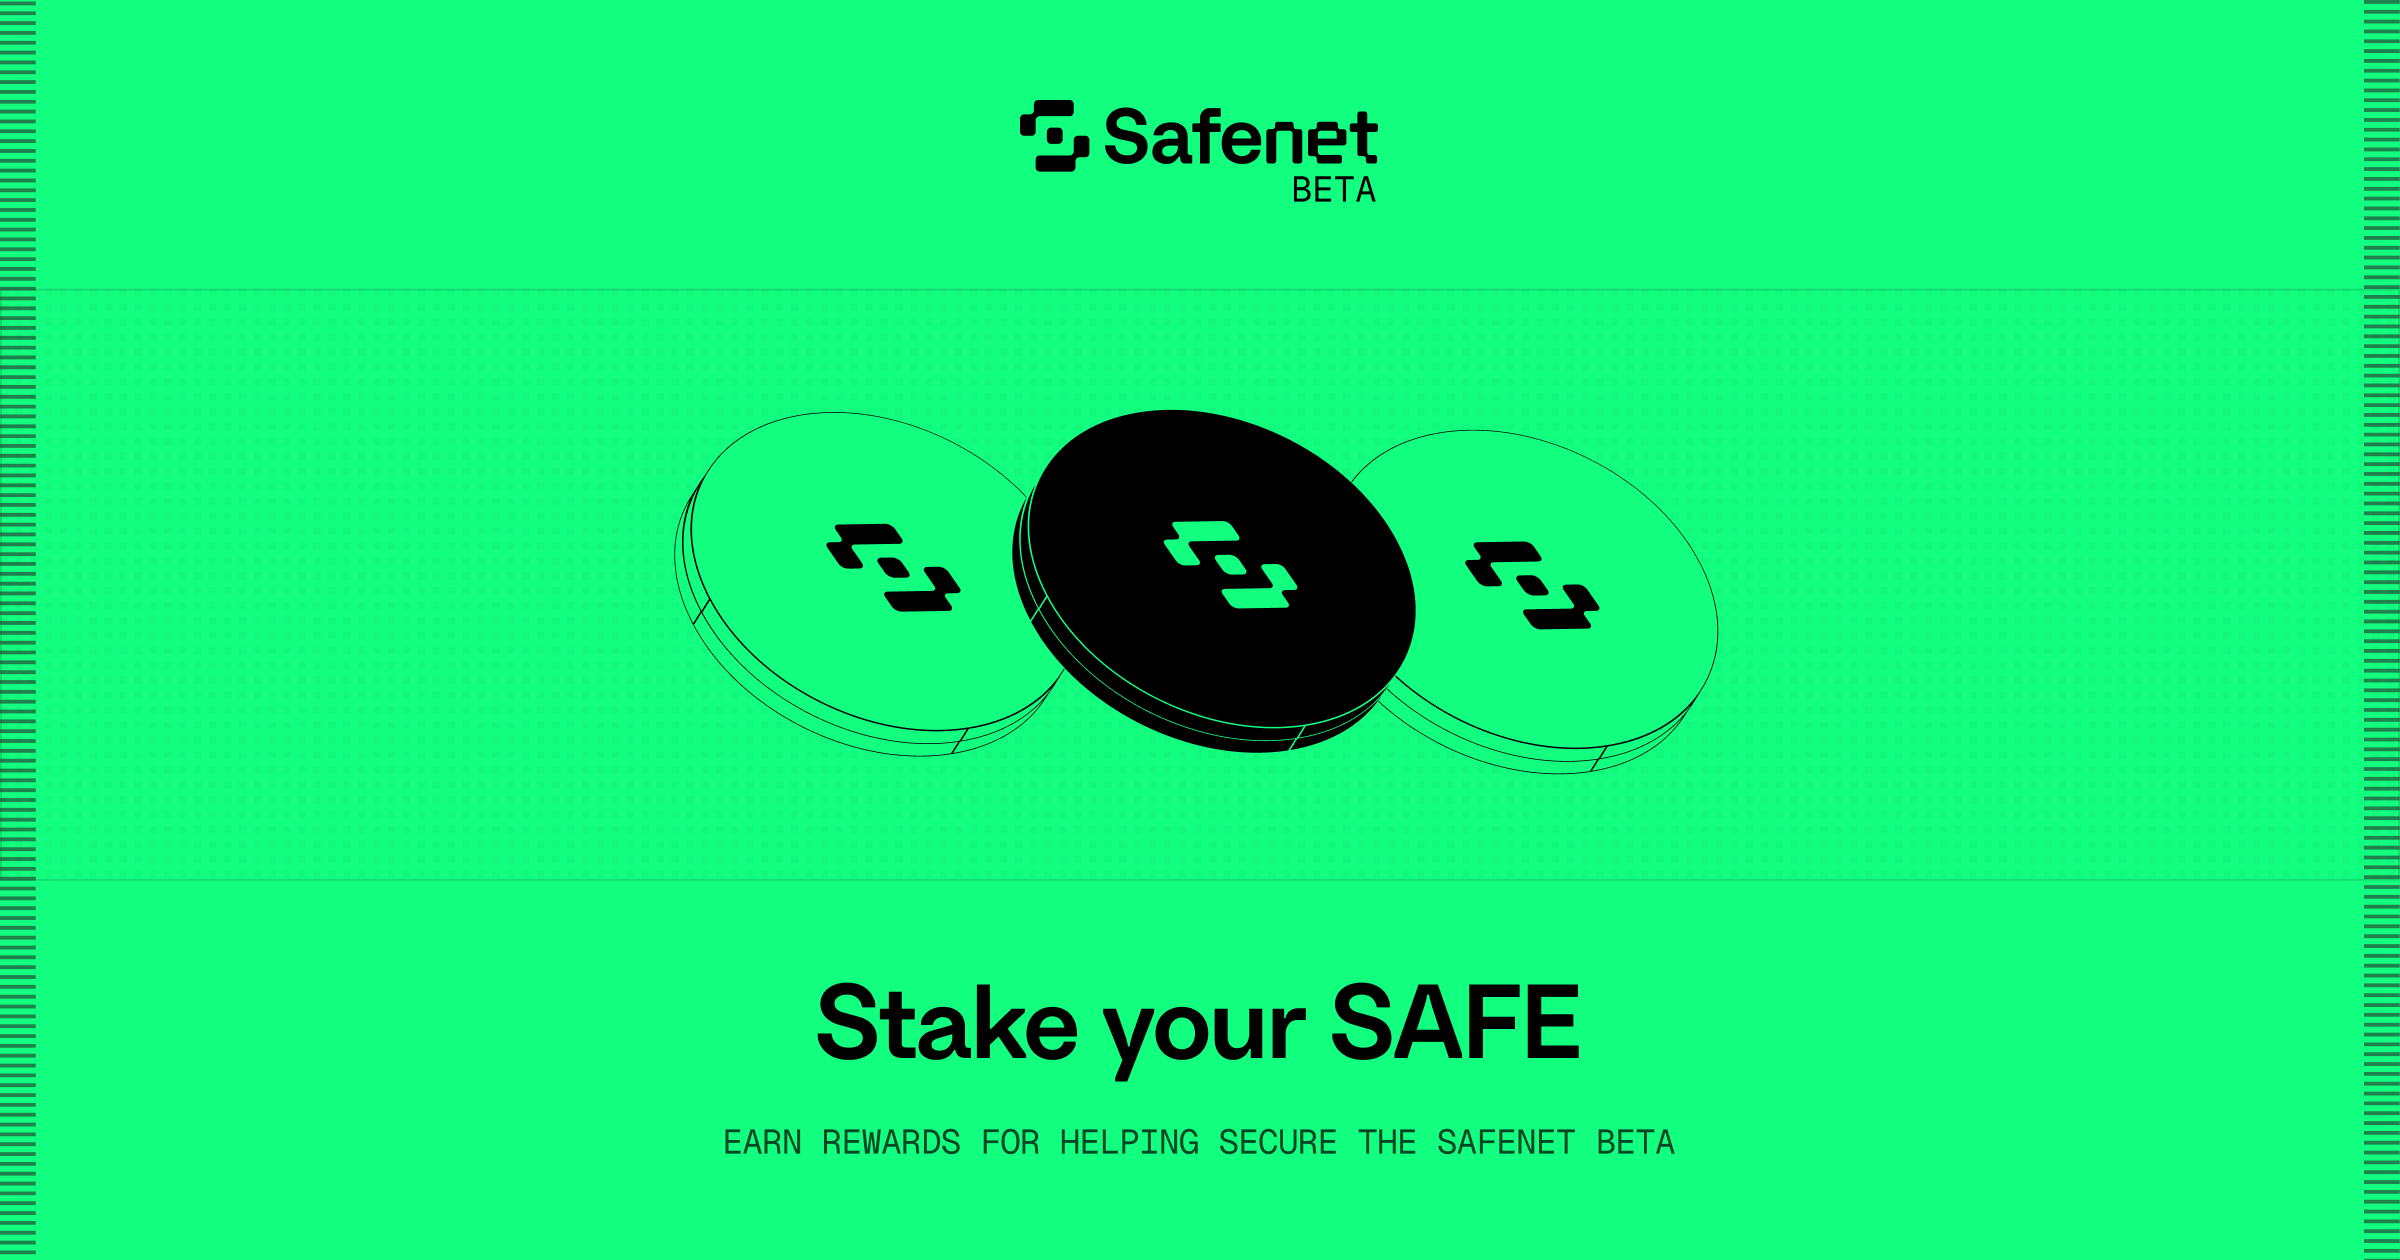
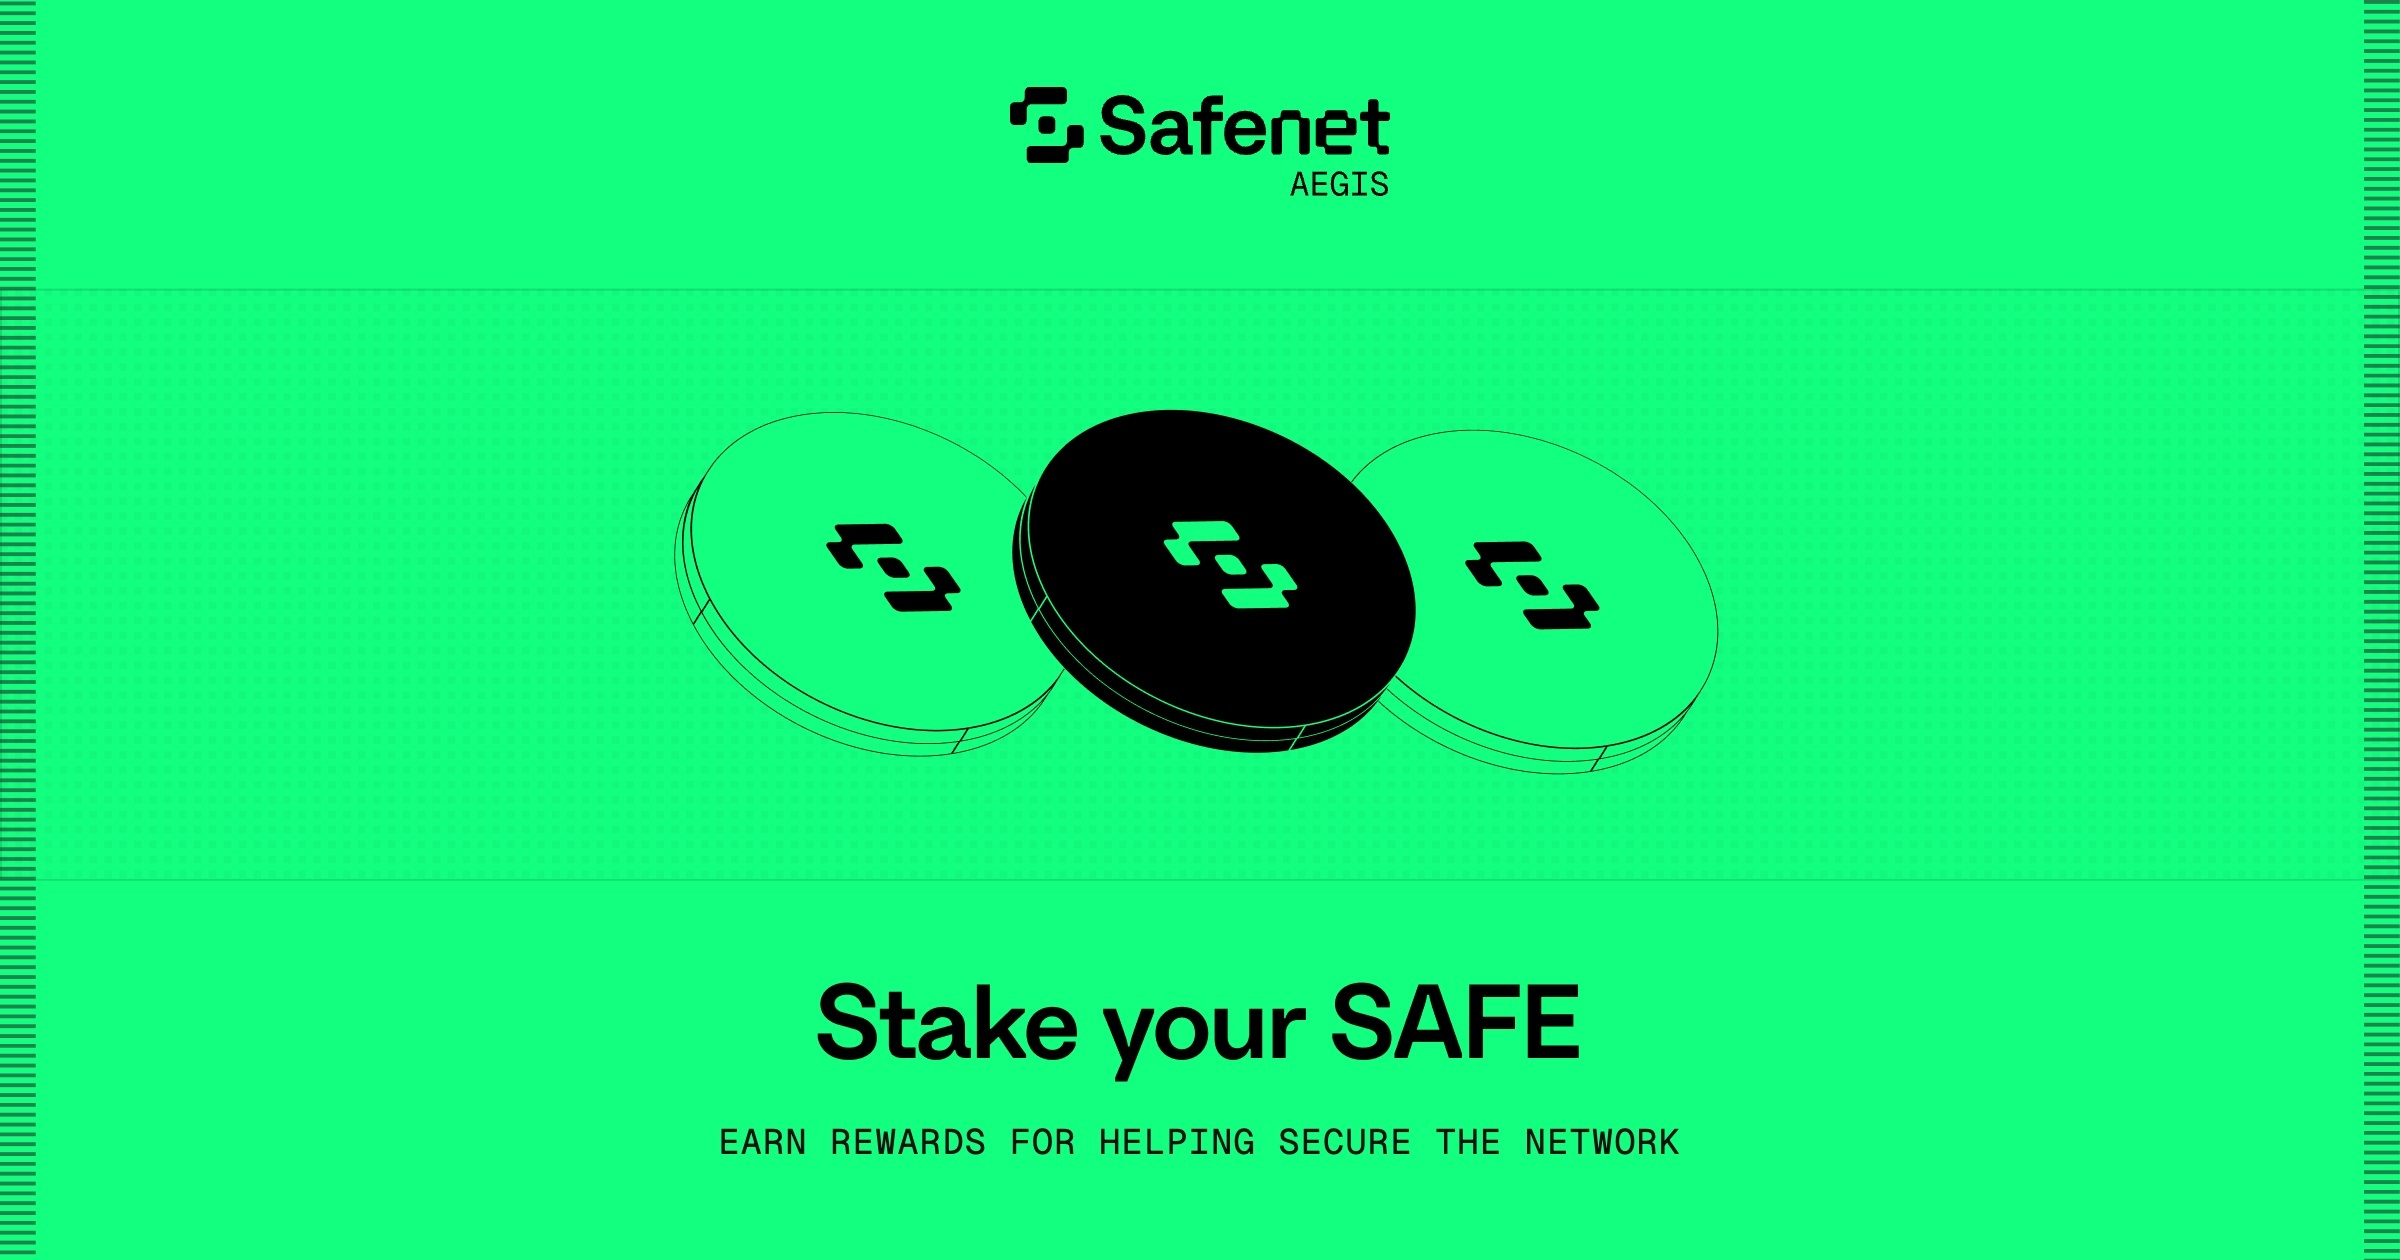
Rebrand Safenet Beta to Safenet Aegis (#117)
* Rebrand Safenet Beta to Safenet Aegis

- Point validator-info and rewards defaults to safe-fndn/safenet-data
- Update header tag, page titles/subtitles and PWA manifest copy
- Update unit and e2e assertions for new copy
- Upate OG image to aegis

diff --git a/e2e/pages/dashboard.page.ts b/e2e/pages/dashboard.page.ts
@@ -17,7 +17,7 @@ export class DashboardPage {
   constructor(page: Page) {
     this.page = page
     this.heading = page.getByRole("heading", { name: "Stake your SAFE" })
-    this.subtitle = page.getByText("Earn rewards for helping secure Safenet Beta")
+    this.subtitle = page.getByText("Earn rewards for helping secure Safenet Aegis")
     this.statsCards = page.locator("[class*='grid'] > div").filter({ has: page.locator("[class*='CardTitle']") })
     this.totalDelegatedCard = page.getByText("Total SAFE Staked").locator("../..")
     this.yourDelegatedCard = page.getByText("Your Staked SAFE").locator("../..")

diff --git a/src/components/layout/Header.tsx b/src/components/layout/Header.tsx
@@ -29,7 +29,7 @@ export function Header() {
         <div className="flex items-center gap-8">
           <Link to="/" className="flex flex-col items-start" onClick={closeMobileMenu}>
             <img src={safenetLogo} alt="Safenet" className="h-[22px] dark:invert" />
-            <span className="self-end font-mono text-[10.89px] leading-[95%] text-foreground">BETA</span>
+            <span className="self-end font-mono text-[10.89px] leading-[95%] text-foreground">AEGIS</span>
           </Link>
           <nav className="hidden md:flex items-stretch h-16 gap-1 -mb-px">
             {navItems.map((item) => (

diff --git a/src/pages/DashboardPage.tsx b/src/pages/DashboardPage.tsx
@@ -16,7 +16,7 @@ export function DashboardPage() {
         illustrationDark={heroShieldsDark}
         illustrationAlt="Safe staking shields"
         title="Stake your SAFE"
-        subtitle="Earn rewards for helping secure Safenet Beta"
+        subtitle="Earn rewards for helping secure Safenet Aegis"
       >
         <p className="mt-3 text-xs uppercase tracking-[-0.02em] text-foreground/50 font-mono opacity-[0.56]">
           Rewards are not guaranteed and may vary.{" "}

diff --git a/e2e/pages/validators.page.ts b/e2e/pages/validators.page.ts
@@ -8,7 +8,7 @@ export class ValidatorsPage {
 
   constructor(page: Page) {
     this.page = page
-    this.heading = page.getByRole("heading", { name: "Safenet Beta", level: 1 })
+    this.heading = page.getByRole("heading", { name: "Safenet Aegis", level: 1 })
     this.subtitle = page.getByText("Select a validator to stake your SAFE tokens")
     this.validatorCards = page.locator("[class*='grid'] > div").filter({ has: page.getByText("Total SAFE Staked") })
   }

diff --git a/src/hooks/useValidators.ts b/src/hooks/useValidators.ts
@@ -2,7 +2,7 @@ import { useQuery } from "@tanstack/react-query"
 import { type Address, getAddress } from "viem"
 
 const DEFAULT_URL =
-  "https://raw.githubusercontent.com/safe-fndn/safenet-beta-data/refs/heads/main/assets/validator-info.json"
+  "https://raw.githubusercontent.com/safe-fndn/safenet-data/refs/heads/main/assets/validator-info.json"
 
 export interface ValidatorInfo {
   address: Address

diff --git a/src/hooks/useRewardProof.ts b/src/hooks/useRewardProof.ts
@@ -29,7 +29,7 @@ function isValidProof(data: unknown): data is RewardProof {
 }
 
 const DEFAULT_REWARDS_BASE_URL =
-  "https://raw.githubusercontent.com/safe-fndn/safenet-beta-data/refs/heads/main/assets/rewards"
+  "https://raw.githubusercontent.com/safe-fndn/safenet-data/refs/heads/main/assets/rewards"
 
 function radixProofPath(addr: string): string {
   const hex = addr.slice(2, 10).toLowerCase()

diff --git a/src/pages/ValidatorsPage.tsx b/src/pages/ValidatorsPage.tsx
@@ -14,7 +14,7 @@ export function ValidatorsPage() {
       <PageHero
         illustration={heroSquare}
         illustrationAlt="Safe validator square"
-        title="Safenet Beta"
+        title="Safenet Aegis"
         subtitle="Select a validator to stake your SAFE tokens"
       />
       <ValidatorList autoOpenDelegate={delegateParam} />

diff --git a/src/pages/__tests__/ValidatorsPage.test.tsx b/src/pages/__tests__/ValidatorsPage.test.tsx
@@ -19,7 +19,7 @@ describe("ValidatorsPage", () => {
       </MemoryRouter>,
     )
 
-    expect(screen.getByText("Safenet Beta")).toBeInTheDocument()
+    expect(screen.getByText("Safenet Aegis")).toBeInTheDocument()
     expect(screen.getByText(/Select a validator to stake your SAFE/)).toBeInTheDocument()
   })
 
